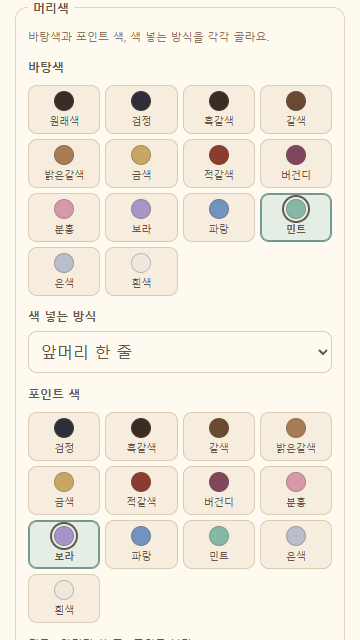
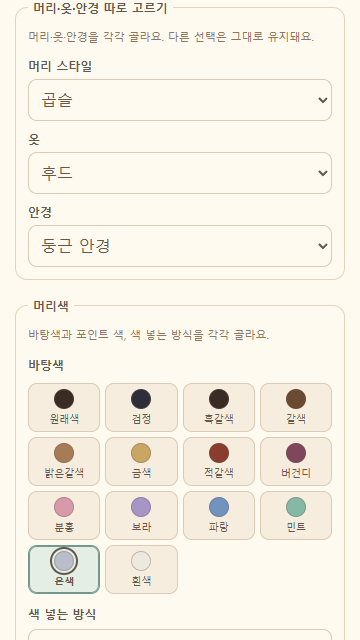
feat(game): 안경 착용을 독립적으로 선택

diff --git a/game/review/round/roster.ts b/game/review/round/roster.ts
@@ -91,7 +91,7 @@ class RosterScene extends Phaser.Scene {
     const entry=this.entries[selected];if(!entry)return;
     const resident=residents[selected];Object.assign(resident.design,patch);
     resident.name=`${hairStyles.find(option=>option.value===(resident.design.hairStyle??'bob'))!.label} · ${tops.find(option=>option.value===(resident.design.top??'cardigan'))!.label}`;
-    resident.description='머리 스타일과 옷을 각각 고른 모습이에요. 눈썹·수염·안경·미소선은 그대로예요.';
+    resident.description='머리·옷·안경을 각각 고른 모습이에요. 눈썹·수염·미소선은 그대로예요.';
     const {x,y}=entry.actor.root;entry.actor.root.destroy();
     entry.actor=this.makeActor(residents[selected],x,y);this.frame();
   }
@@ -136,6 +136,10 @@ for(const [id,options,key] of [['hair-style',hairStyles,'hairStyle'],['top-style
   };
 }
 
+$('glasses').onchange=()=>{
+  scene.changeDesign({glasses:($('glasses') as HTMLSelectElement).value==='round'});select(selected);
+  if(zoomed&&innerWidth<=650)document.querySelector('.world')!.scrollIntoView({block:'start'});
+};
 for(const key of ['hairColor','hairAccent'] as const){
   const base=key==='hairColor',container=$(base?'hair-colors':'hair-accents');
   const options=base?[{color:undefined,label:'원래색'},...hairColors]:hairColors;
@@ -168,6 +172,7 @@ function select(index:number){
   });
   ($('hair-style') as HTMLSelectElement).value=residents[index].design.hairStyle??'bob';
   ($('top-style') as HTMLSelectElement).value=residents[index].design.top??'cardigan';
+  ($('glasses') as HTMLSelectElement).value=residents[index].design.glasses?'round':'none';
   updateHair();
   if(zoomed)scene.frame();
 }

diff --git a/game/review/round/adults.html b/game/review/round/adults.html
@@ -10,9 +10,10 @@
     <div id="ready" role="status">주민들이 준비하고 있어요…</div>
     <div class="toolbar"><button id="walk" aria-pressed="true">산책 멈추기</button><button id="zoom" aria-pressed="false">크게 보기</button><button id="reset">처음 자리로</button></div>
   </section><aside class="roster-panel" aria-label="주민과 머리·옷 고르기"><p class="roster-eyebrow">어린이 없이, 다양한 성인의 모습</p><h2 id="who">곱슬 · 후드</h2><p id="description"></p>
-    <fieldset class="style-picker"><legend>머리와 옷 따로 고르기</legend><p>머리를 바꿔도 옷은 그대로, 옷을 바꿔도 머리는 그대로예요.</p>
+    <fieldset class="style-picker"><legend>머리·옷·안경 따로 고르기</legend><p>머리·옷·안경을 각각 골라요. 다른 선택은 그대로 유지돼요.</p>
       <label for="hair-style">머리 스타일</label><select id="hair-style"></select>
       <label for="top-style">옷</label><select id="top-style"></select>
+      <label for="glasses">안경</label><select id="glasses"><option value="none">없음</option><option value="round">둥근 안경</option></select>
     </fieldset>
     <fieldset class="hair-picker" aria-describedby="hair-help"><legend>머리색</legend><p id="hair-help">바탕색과 포인트 색, 색 넣는 방식을 각각 골라요.</p>
       <p class="color-label" id="hair-colors-label">바탕색</p><div id="hair-colors" class="hair-colors" role="group" aria-labelledby="hair-colors-label"></div>

diff --git a/game/review/round/six.html b/game/review/round/six.html
@@ -10,9 +10,10 @@
     <div id="ready" role="status">주민들이 준비하고 있어요…</div>
     <div class="toolbar"><button id="walk" aria-pressed="true">산책 멈추기</button><button id="zoom" aria-pressed="false">크게 보기</button><button id="reset">처음 자리로</button></div>
   </section><aside class="roster-panel" aria-label="주민과 머리·옷 고르기"><p class="roster-eyebrow">머리와 옷 모양을 따로 골라요</p><h2 id="who">단발 · 가디건</h2><p id="description"></p>
-    <fieldset class="style-picker"><legend>머리와 옷 따로 고르기</legend><p>머리를 바꿔도 옷은 그대로, 옷을 바꿔도 머리는 그대로예요.</p>
+    <fieldset class="style-picker"><legend>머리·옷·안경 따로 고르기</legend><p>머리·옷·안경을 각각 골라요. 다른 선택은 그대로 유지돼요.</p>
       <label for="hair-style">머리 스타일</label><select id="hair-style"></select>
       <label for="top-style">옷</label><select id="top-style"></select>
+      <label for="glasses">안경</label><select id="glasses"><option value="none">없음</option><option value="round">둥근 안경</option></select>
     </fieldset>
     <fieldset class="hair-picker" aria-describedby="hair-help"><legend>머리색</legend><p id="hair-help">바탕색과 포인트 색, 색 넣는 방식을 각각 골라요.</p>
       <p class="color-label" id="hair-colors-label">바탕색</p><div id="hair-colors" class="hair-colors" role="group" aria-labelledby="hair-colors-label"></div>
